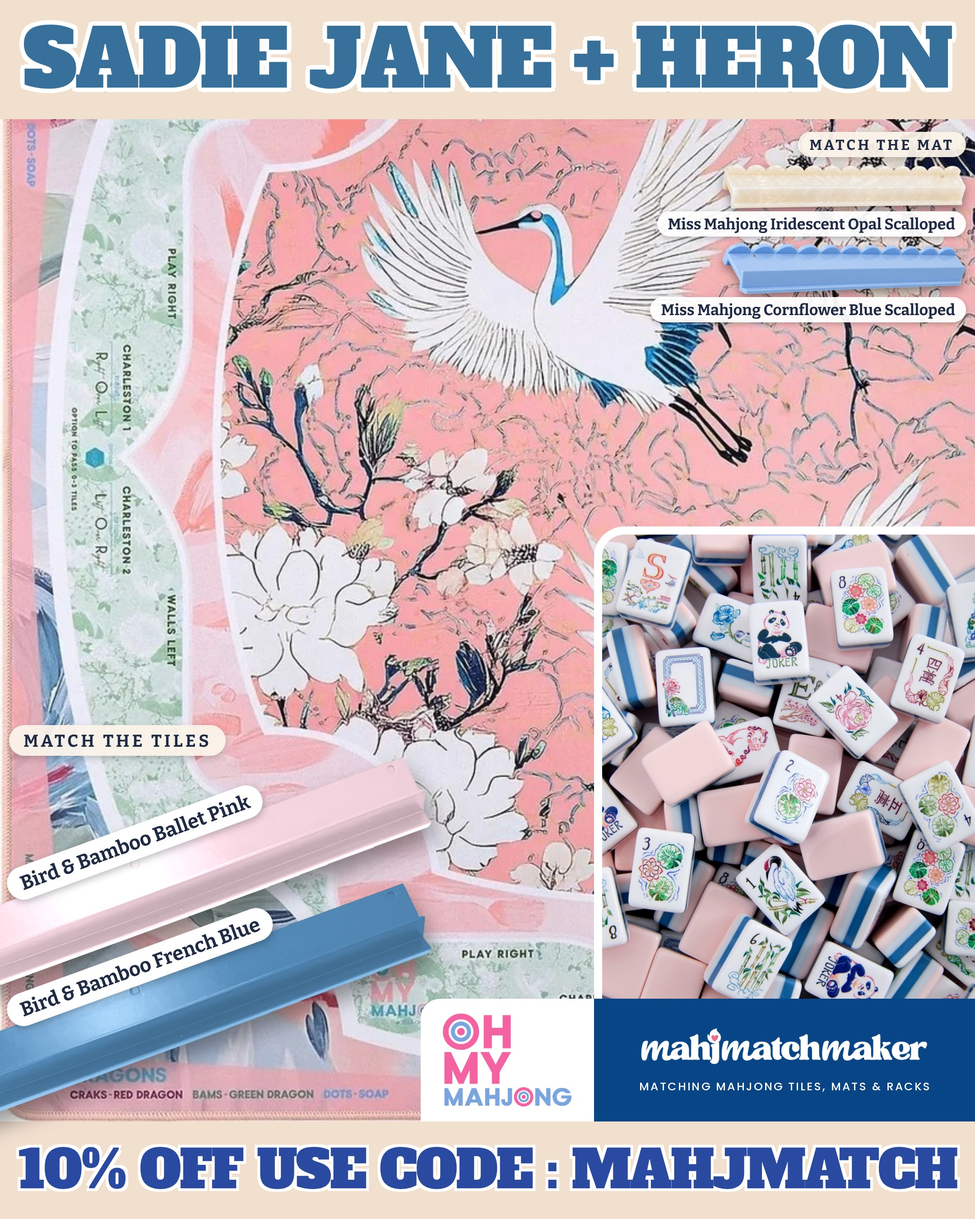
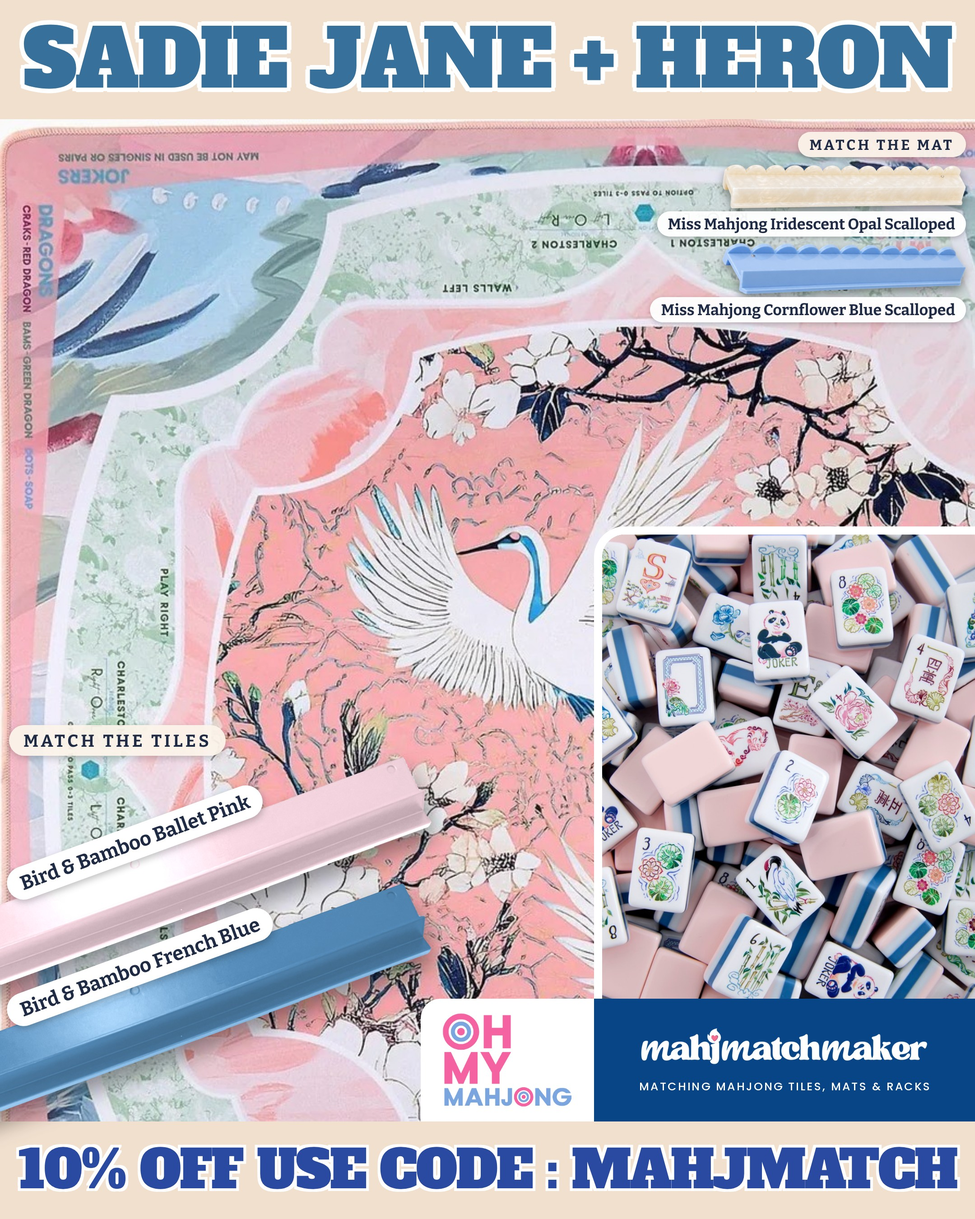
Sadie Jane: Heron card crop shows the blue (queued, not published)
Claude-Session: https://claude.ai/code/session_01QxwYQtmWcAr4s5uYJYP3mA

diff --git a/docs/OVERDUE.md b/docs/OVERDUE.md
@@ -188,4 +188,4 @@
 - Betty June & Jeannette has its own Shopify store since ~Nov 17 (bettyjuneandjeannette.com, 36 mats): read /products.json for the backfill photos + new-mat watch; ask Tiffany once (with Sadie Jane's next message, not alone) whether to send the HQ affiliate inquiry email for the new site.
 - Reel covers: 40 sets only have the retired blur-band version (assets/covers/albums/reel-tall/_retired-blur-bands/). Rebuild each true 9:16 (TALL=1 album_cover_omm.py with the album's tile photo, or reel_tall_wall.py) and pass reel_cover_check.py; do a set's cover before its next reel, the rest from docs/USE-THE-USAGE.md.
 - Betty June & Jeannette affiliate inquiry sent Nov 23 (email): watch mahjmatchmaker@ inbox for the reply; log brands/betty-june-jeannette in HQ.
-- Sadie Jane QUEUED BATCH (publish once, after her Done or her go): Kerry card rebuilt with the truer site photo (assets/cards/sadie-jane, built Nov 23 11:55am; manifest/review not republished: she was in the page 11:40am); Heron inset off the blue. Also swap the Kerry photo in FYM + Mat Gallery to assets/mats/etsy/bettyjunejeannette/kerry-site-5.jpg in the next FYM release (hers is 'too saturated').
+- Sadie Jane QUEUED BATCH (publish once, after her Done or her go): Kerry card rebuilt with the truer site photo (assets/cards/sadie-jane, built Nov 23 11:55am; manifest/review not republished: she was in the page 11:40am); Heron card rebuilt Nov 23 12:25pm (crop = mat's top-left corner: blue sweep + heron head both show; in assets/cards/sadie-jane, not published). To publish the batch: build_review.py sadie-jane + Artifact publish, ONLY after her Done/go (db v405, updated 16:40Z, done false at 12:20pm). Also swap the Kerry photo in FYM + Mat Gallery to assets/mats/etsy/bettyjunejeannette/kerry-site-5.jpg in the next FYM release (hers is 'too saturated').
